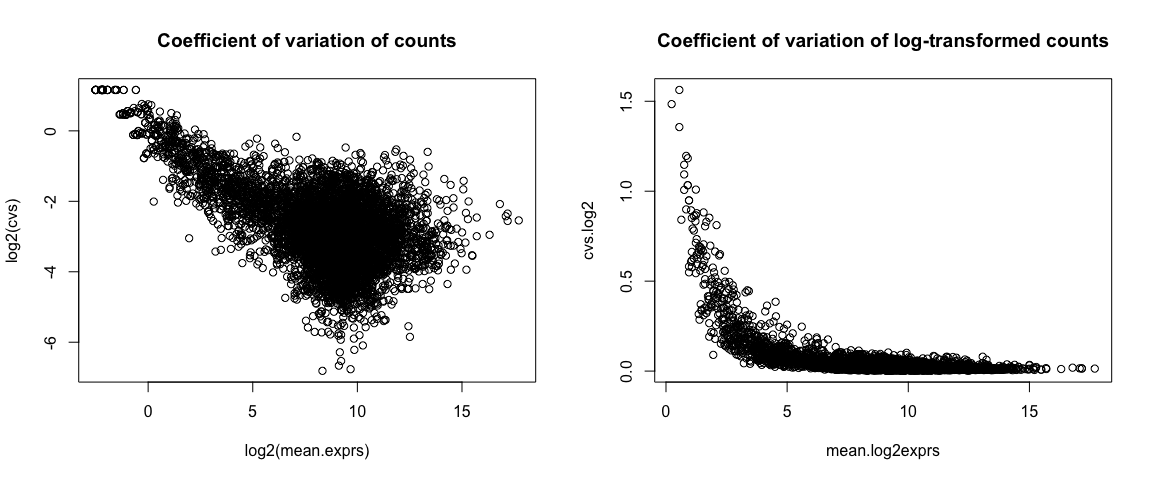
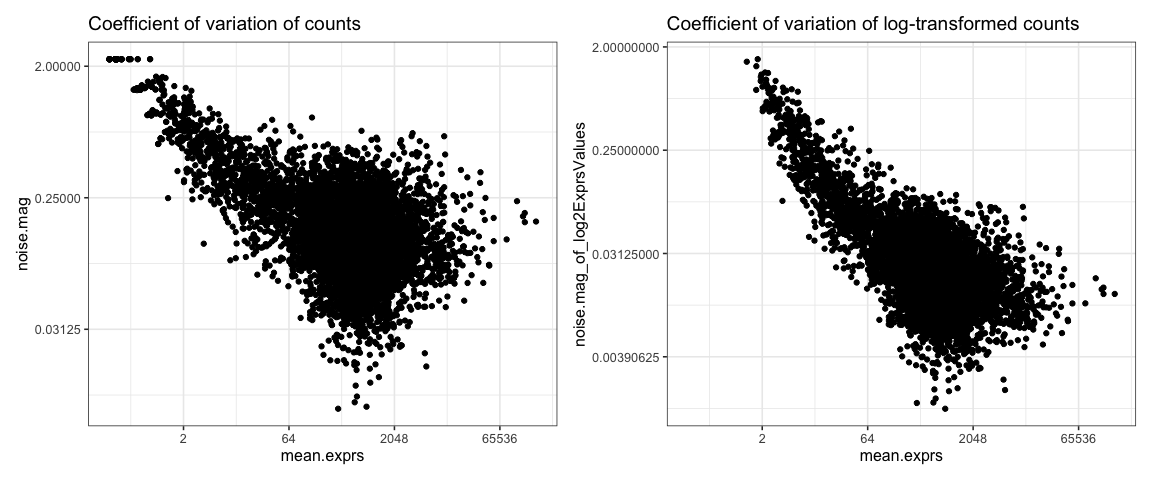
hetsked notes: minor edits for hopefully better readability

diff --git a/RNA_heteroskedasticity.md b/RNA_heteroskedasticity.md
@@ -1,6 +1,36 @@
+---
+output:
+  html_document:
+    code_folding: hide
+    theme: paper
+    keep_md: true
+editor_options: 
+  chunk_output_type: console
+---
+
 # Exploring heteroskedasticity
 
-*For the R code used to generate the images shown here, see the corresponding [Rmd](https://github.com/friedue/Notes/blob/master/RNA_heteroskedasticity.Rmd).*
+
+
+
+
+
+```r
+## read counts
+featCounts <- read.table("~/Documents/Teaching/ANGSD/data/featCounts_Gierlinski_genes.txt", header=TRUE, row.names = 1)
+names(featCounts) <- names(featCounts) %>% gsub(".*alignment\\.", "", .) %>% gsub("_Aligned.*", "",.)
+counts.mat <- as.matrix(featCounts[, -c(1:5)])
+
+## sample info
+samples <- data.frame(condition = gsub("_.*", "", colnames(counts.mat)),
+  row.names = colnames(counts.mat))
+samples$condition <- ifelse(samples$condition == "SNF2", "SNF2.KO", samples$condition)
+
+## DESeq2 object
+dds <- DESeqDataSetFromMatrix(counts.mat, colData = samples, design = ~condition)
+# normalizing for diffs in sequencing depth and abundances per sample
+dds <- estimateSizeFactors(dds) 
+```
 
 **Heteroskedasticity** = absence of homoskedasticity.
 Where homoscedasticity is defined as ["the property of having equal statistical variances"](https://www.merriam-webster.com/dictionary/homoscedasticity).
@@ -9,16 +39,59 @@ Historically, **log-transformation** was proposed to counteract heteroscedastici
 However, read counts retain unequal variabilities, even after log-transformation.
 As described by [Law et al.](https://genomebiology.biomedcentral.com/articles/10.1186/gb-2014-15-2-r29):
 
-> Large log-couts have much larger standard deviations than small counts.
+> Large log-counts have much larger standard deviations than small counts.
 > A logarithmic transformation counteracts this, but it overdoes it. Now, large counts have smaller standard deviations than small log-counts.
+
+
+```r
+## Greater variability across replicates for low-count genes
+counts(dds, normalized = TRUE) %>% .[,1:2] %>% log2 %>% 
+  plot(., main = "Greater variability of library-size-norm,\nlog-transformed counts for small count genes")
+```
+
+
+```r
+## meanSDPlot (vsn library)
+rowV = function(x, Mean) {
+  sqr     = function(x)  x*x
+  n       = rowSums(!is.na(x))
+  n[n<1]  = NA
+  return(rowSums(sqr(x-Mean))/(n-1))
+}
+
+mean.exprs   = counts(dds[, dds$condition == "WT"], normalized = TRUE) %>% rowMeans(., na.rm = TRUE)
+vars.exprs   = counts(dds[, dds$condition == "WT"], normalized = TRUE) %>% 
+  rowV(., Mean = mean.exprs)
+sd.exprs <- sqrt(vars.exprs)
+#vars <- sqrt(rowSums((x-means)^2)/(nlibs-1))
+
+
+## log-transformed data
+mean.log2exprs   = counts(dds[, dds$condition == "WT"], normalized = TRUE) %>% log2 %>%
+  rowMeans(., na.rm = TRUE)
+vars.log2exprs   = counts(dds[, dds$condition == "WT"], normalized = TRUE) %>% log2 %>%
+  rowV(., Mean = mean.log2exprs)
+sd.log2exprs <- sqrt(vars.log2exprs)
+#vars <- sqrt(rowSums((x-means)^2)/(nlibs-1))
+
+par(mfrow=c(1,2))
+plot(log2(mean.exprs), log2(sd.exprs), main = "Sd depends on the mean", cex = .2, lwd = .1)
+plot(mean.log2exprs, sd.log2exprs, main = "Sd depends on the mean\nlog-transformed counts", cex = .2, lwd = .1)
+```
 
 ![](RNA_heteroskedasticity_files/figure-html/unnamed-chunk-3-1.png)<!-- -->
 
-Left: The greater the mean expression, the greater the variance.
-Right: The greater the log-transformed expression, the smaller the variance as the average expression value and the actual expression value (`x`) are closer together.
+```r
+#vsn::meanSdPlot(log2(counts(dds[, dds$condition == "WT"], normalized =TRUE)))
+#plot(mean.exprs, vars.exprs, main = "Var depends on the mean", xlim = c(0,1000), ylim = c(0, 2000))
+#plot(mean.exprs, vars.exprs, main = "Var depends on the mean", xlim = c(0,20), ylim = c(0, 20))
+```
+
+The greater the mean expression, the greater the variance.
+The greater the log-transformed expression, the smaller the variance as the average expression value and the actual expression value (`x`) are closer together.
 
 <details>
-  <summary>Click here for some toy examples to illustrate why log-transformation turns the relationship on its head.</summary>
+  <summary>Click here for some toy examples to illustrate that point.</summary>
 
 
 ```r
@@ -57,22 +130,115 @@ log2(10) - log2(9)
 
 Intuitively, one can also see that the "spread" of the data points is greater for low-count values:
 
+
+```r
+counts(dds, normalized = TRUE) %>% .[,c(1,2)] %>% log2 %>% plot
+```
+
 ![](RNA_heteroskedasticity_files/figure-html/unnamed-chunk-5-1.png)<!-- -->
 
-Let's have a closer look at two example genes, one that's highly and one that's lowly expressed
 
-While the absolute values of SD and Variance are higher for high-count genes (in the absence of log-transformation),
-the **magnitude** of the noise is greater for the low-count genes.
-The following plots display the actual normalized expression values (not log-transformed) with the SD and the ratio `SD/mean` noted in the title.
+```r
+# example with high expression 
+mean.exprs %>% sort %>% tail # YKL060C
+# example with low expression
+mean.exprs[mean.exprs > 0] %>% sort %>% head #YPR099C
+```
 
+```r
+high.exprsd <- "YKL060C"
+low.exprsd <- "YPR099C"
+```
+
+While the absolute values of SD/Var are higher for high-count genes,
+the **magnitude** of the noise is greater for the low-count genes:
+
+
+```r
+noise.mag <- sd.exprs[c(high.exprsd, low.exprsd)] / mean.exprs[c(high.exprsd, low.exprsd)]
+
+p1 <- counts(dds[high.exprsd,], normalized=TRUE) %>% t %>% 
+  as.data.table(., keep.rownames = "sample") %>% 
+  ggplot(., aes(x = gsub("_.*", "", sample), y = YKL060C)) + 
+  geom_point(size = 4, alpha = .5, shape = 1) + 
+  xlab("condition") + 
+  ggtitle("Highly expressed gene", subtitle = paste("SD:", sd.exprs[high.exprsd], "\nSD/mean:", noise.mag[high.exprsd]))
+
+p2 <- counts(dds[low.exprsd,], normalized=TRUE) %>% t %>%
+  as.data.table(., keep.rownames = "sample") %>%
+  ggplot(., aes(x = gsub("_.*", "", sample), y = YPR099C)) +
+  geom_point(size = 4, alpha = .5, shape = 1) + 
+  xlab("condition") + 
+  ggtitle("Lowly expressed gene", subtitle = paste("SD:", sd.exprs[low.exprsd], "\nSD/mean:", noise.mag[low.exprsd]))
+
+p1 + p2 + plot_annotation(title = "Lib-size norm. counts")
+```
 
 ![](RNA_heteroskedasticity_files/figure-html/unnamed-chunk-8-1.png)<!-- -->
+
+```r
+noiselog2.mag <- sd.log2exprs[c(high.exprsd, low.exprsd)] / mean.log2exprs[c(high.exprsd, low.exprsd)]
+
+p1 <- log2(counts(dds[high.exprsd,], normalized=TRUE)) %>% t %>% 
+  as.data.table(., keep.rownames = "sample") %>% 
+  ggplot(., aes(x = gsub("_.*", "", sample), y = YKL060C)) + 
+  geom_point(size = 4, alpha = .5, shape = 1) + 
+  xlab("condition") + 
+  ggtitle("Highly expressed gene", subtitle = paste("SD:", sd.log2exprs[high.exprsd], "\nSD/mean:", noiselog2.mag[high.exprsd]))
+
+p2 <- log2(counts(dds[low.exprsd,], normalized=TRUE)) %>% t %>%
+  as.data.table(., keep.rownames = "sample") %>%
+  ggplot(., aes(x = gsub("_.*", "", sample), y = YPR099C)) +
+  geom_point(size = 4, alpha = .5, shape = 1) + 
+  xlab("condition") + 
+  ggtitle("Lowly expressed gene", subtitle = paste("SD:", sd.log2exprs[low.exprsd], "\nSD/mean:", noiselog2.mag[low.exprsd]))
+
+p1 + p2 + plot_annotation(title = "Lib-size norm., log2-transformed counts")
+```
 
 ![](RNA_heteroskedasticity_files/figure-html/unnamed-chunk-9-1.png)<!-- -->
 
 This is true irrespective of log-transformation:
 
+
+```r
+cvs <- sd.exprs/mean.exprs
+cvs.log2 <- sd.log2exprs / mean.log2exprs
+
+#par(mfrow = c(1,2))
+#plot(log2(mean.exprs), log2(cvs), main = "Coefficient of variation of counts")
+#plot(mean.log2exprs, cvs.log2, main = "Coefficient of variation of log-transformed counts")
+p1 <- ggplot(data.frame(meanExprs = mean.exprs, noise.mag = cvs),
+    aes(x = mean.exprs, y = noise.mag)) + geom_point() +
+    scale_y_continuous(trans = log2_trans()) +
+    scale_x_continuous(trans=log2_trans()) + 
+    ggtitle("Coefficient of variation of counts")
+p2 <- ggplot(data.frame(mean.log2Exprs =  mean.log2exprs, noise.mag_of_log2ExprsValues = cvs.log2),
+    aes(x = mean.exprs, y = noise.mag_of_log2ExprsValues)) + geom_point() +
+    scale_y_continuous(trans = log2_trans()) +
+    scale_x_continuous(trans=log2_trans()) +
+    ggtitle("Coefficient of variation of log-transformed counts")
+p1 | p2
+```
+
+```
+## Warning: Transformation introduced infinite values in continuous x-axis
+```
+
+```
+## Warning: Removed 328 rows containing missing values (geom_point).
+```
+
+```
+## Warning: Transformation introduced infinite values in continuous x-axis
+```
+
+```
+## Warning: Removed 581 rows containing missing values (geom_point).
+```
+
 ![](RNA_heteroskedasticity_files/figure-html/unnamed-chunk-10-1.png)<!-- -->
+
 
 The value that I named "magnitude of noise" (`noise.mag` in the code) happens to match the definition of the [**coefficient of variation**](https://en.wikipedia.org/wiki/Coefficient_of_variation)
 
